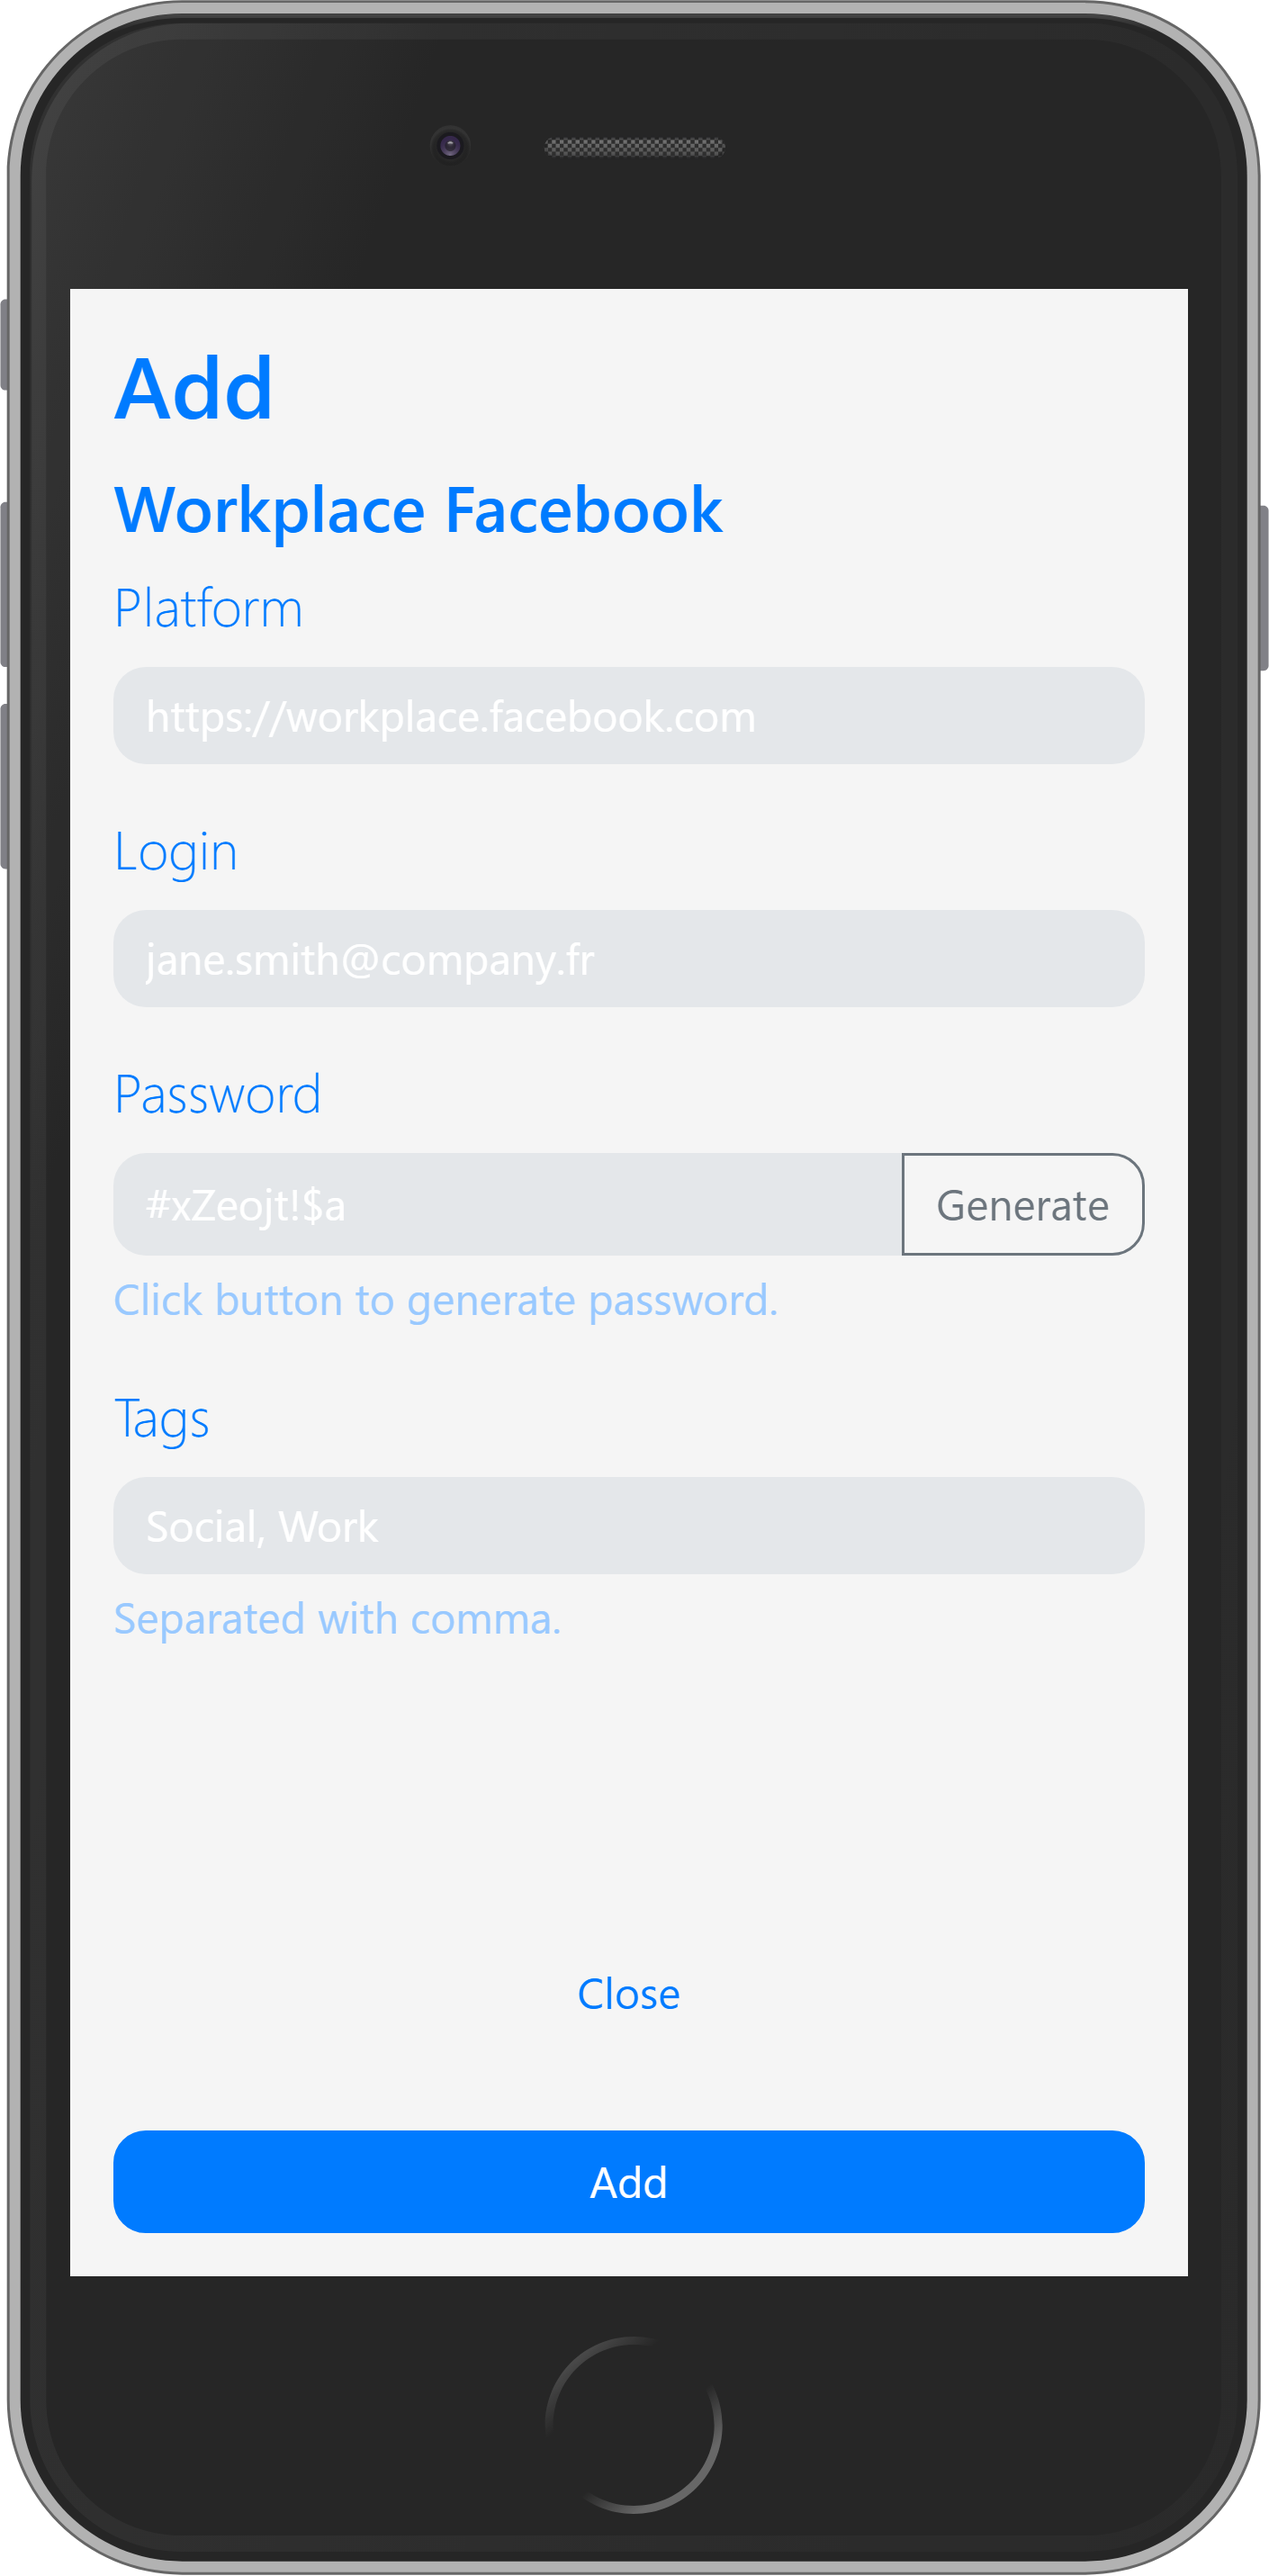
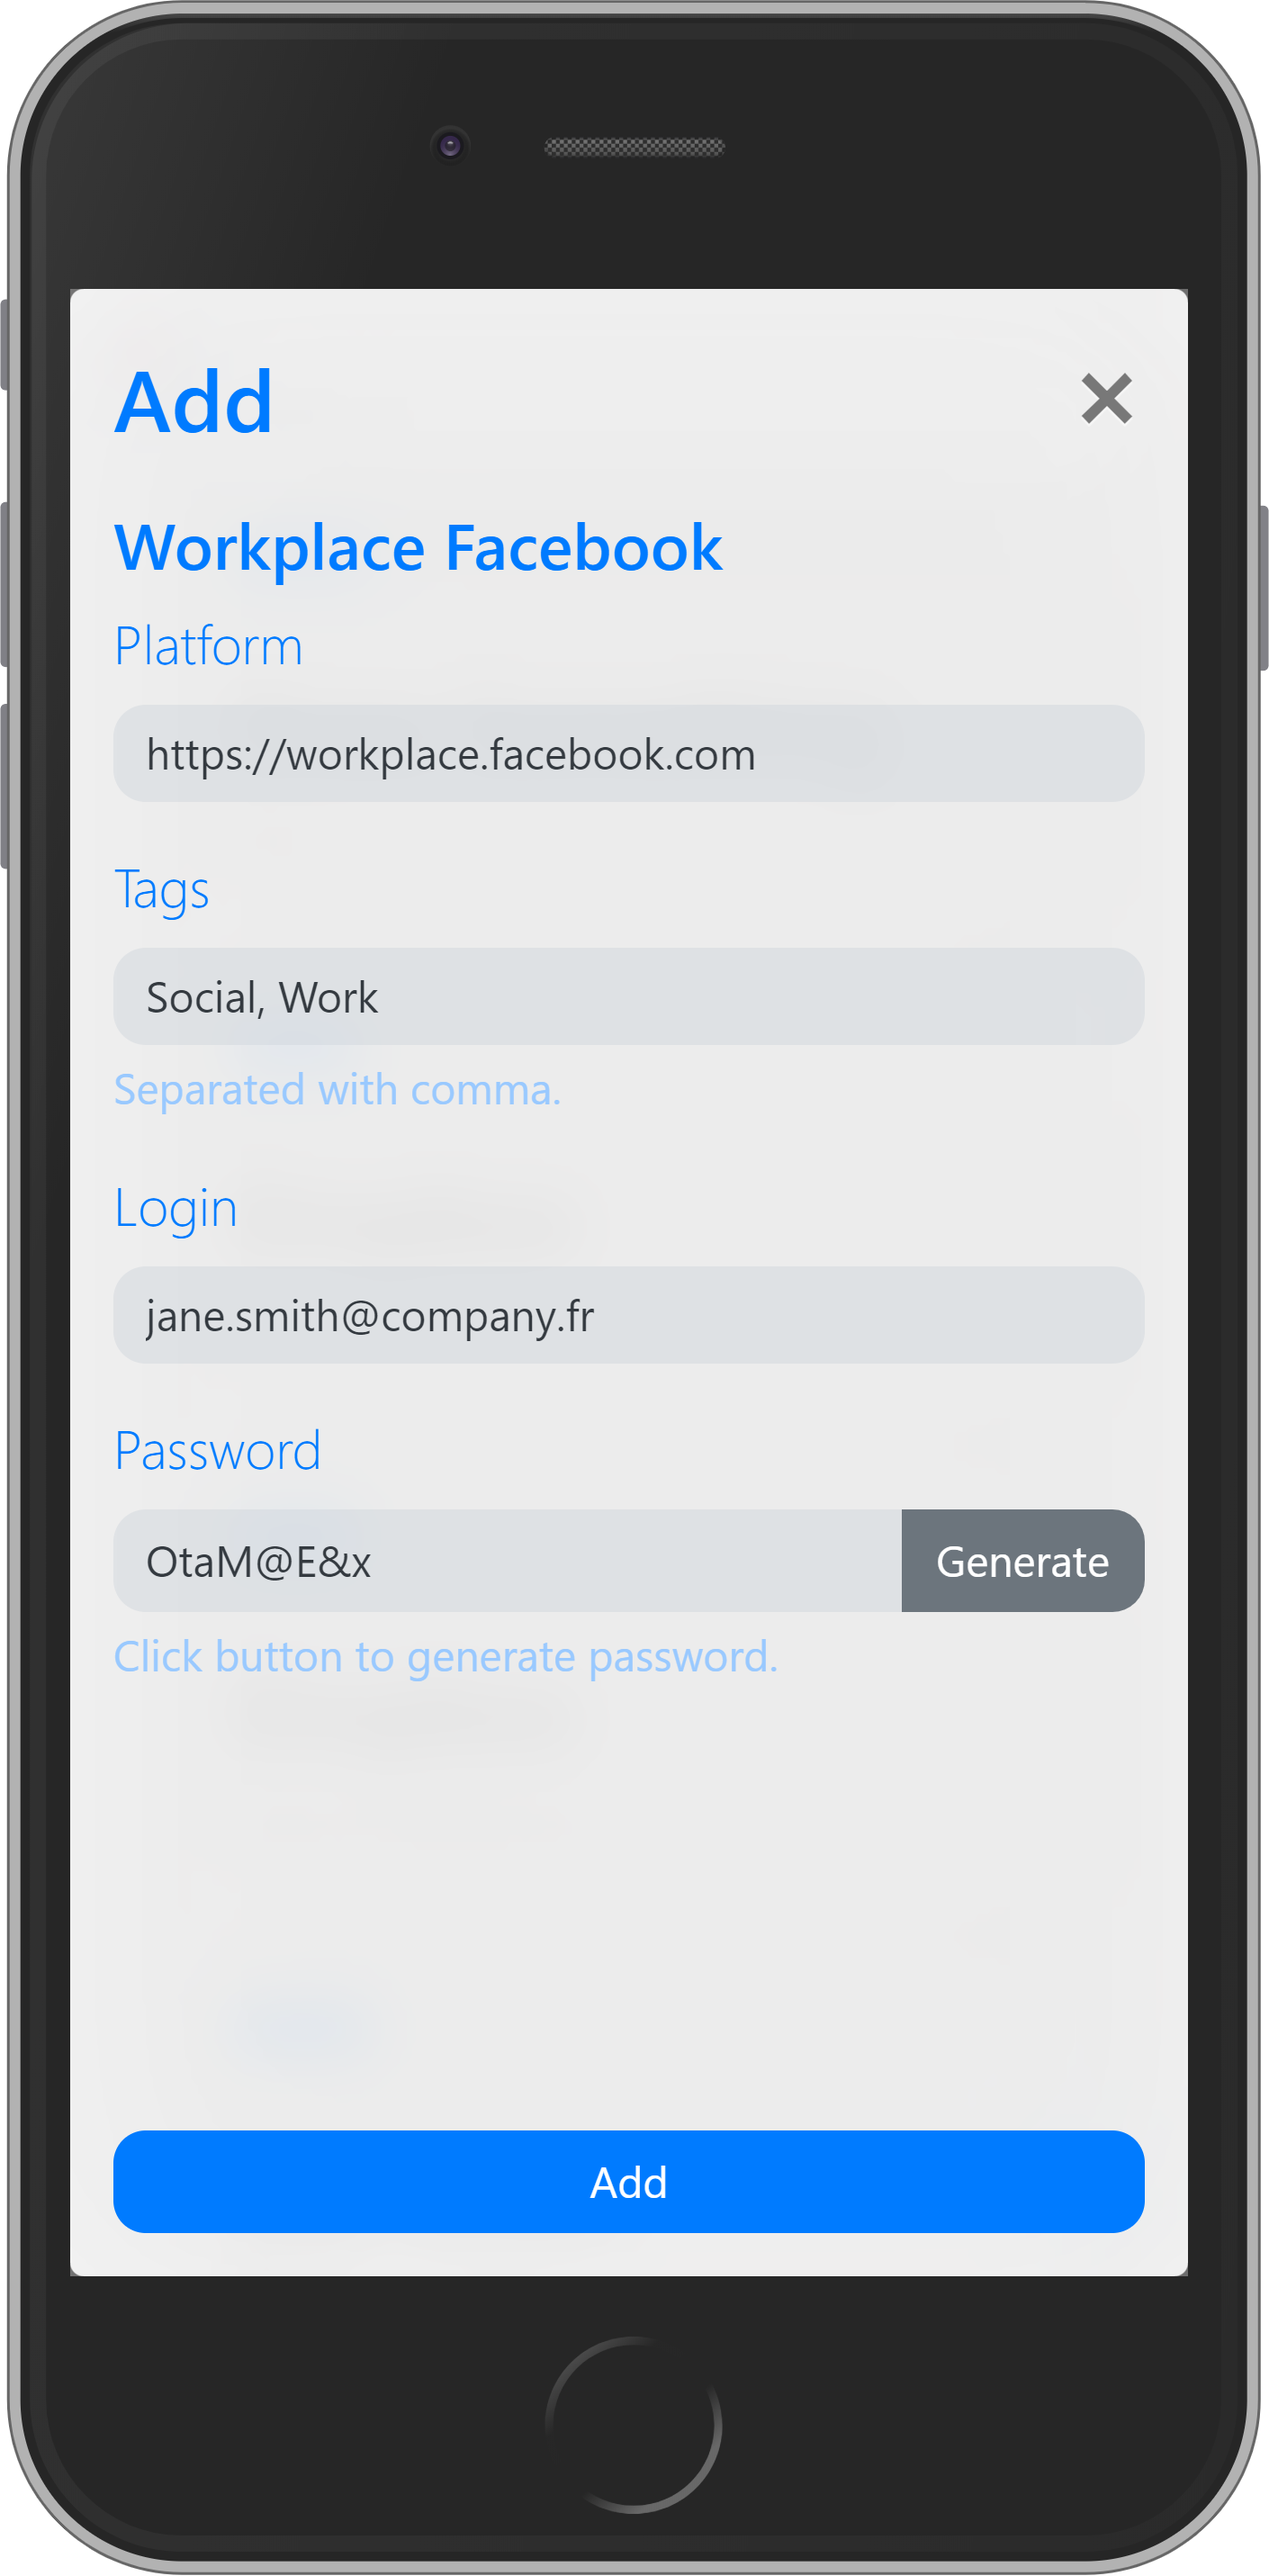
Update design using Neumorphism

diff --git a/src/views/AccountList.vue b/src/views/AccountList.vue
@@ -211,6 +211,25 @@
     .header-search {
         margin: auto;
     }
+    
+    .searchBar {
+        border-radius: 2rem;
+        color: #818182;
+        line-height: 2.5;
+        box-shadow: 20px 20px 60px #d9d9d9, -20px -20px 60px #ffffff;
+    }
+
+    .searchBar::placeholder {
+        color: #818182;
+    }
+
+    .searchBar:active,
+    .searchBar:focus {
+        border: none !important;
+        background-color: #ced4da70;
+        box-shadow:  20px 20px 60px #a3a3a3, 
+             -20px -20px 60px #dddddd;
+    }
 
     .floating-button {
         position:fixed;
@@ -218,15 +237,17 @@
         height:60px;
         bottom:15px;
         right:15px;
-        background-color:#007bff;
-        color:#FFF;
-        border-radius:50px;
+        border-radius:100px;
+        margin-left: auto;
+        margin-right: auto;
+        margin-top:100px;
         text-align:center;
-        box-shadow: 2px 2px 3px #999;
+        background-color:#E0E5EC;
+        box-shadow: 9px 9px 16px rgb(163,177,198,0.6), -9px -9px 16px  rgba(255,255,255, 0.5);
     }
 
     .float-plus {
-        color: #FFF;
+        color: #007bff;
         margin-top:22px;
     }
 </style>

diff --git a/src/App.vue b/src/App.vue
@@ -56,7 +56,7 @@
 
     body {
       color: black;
-      background: #f5f5f5;
+      background: #EFEEEE;
     }
 
     a {
@@ -89,17 +89,32 @@
 
     .btn {
         border-radius: .75rem;
+    } 
+
+    .modal {
+        backdrop-filter: blur(10px);
+        transition: all 1s;
     }
 
-    .searchBar {
-        border-radius: 2rem;
-        color: #818182;
-        background-color: #fff;
-        line-height: 2.5;
-        box-shadow: 0 0 2rem rgba(0, 0, 255, .1);
+    .modal {
+        box-shadow: 0 0 1rem 0 rgba(0, 0, 0, .2);   
+        border-radius: 5px;
+        z-index: 1;
+        background: inherit;
+        overflow: hidden;
     }
 
-    .searchBar::placeholder {
-        color: #818182;
+    .modal:before {
+        content: "";
+        position: absolute;
+        background: inherit;
+        z-index: -1;
+        top: 0;
+        left: 0;
+        right: 0;
+        bottom: 0;
+        box-shadow: inset 0 0 2000px rgba(255, 255, 255, .5);
+        filter: blur(10px);
+        margin: -20px;
     }
 </style>

diff --git a/src/components/NavBar.vue b/src/components/NavBar.vue
@@ -1,6 +1,6 @@
 <template>
     <nav class="navbar navbar-light fixed-top" v-if="isLoggedIn">
-        <button class="navbar-toggler" type="button" @click="signOut()">
+        <button class="navbar-toggler button-power-off" type="button" @click="signOut()">
             <i class="text-danger fa fa-power-off"></i>
         </button>
     </nav>
@@ -39,3 +39,17 @@
         },
     }
 </script>
+
+<style scoped>
+    .navbar {
+        padding-left: 5px;
+    }
+
+    .navbar button {
+        border-radius:100px;
+        text-align:center;
+        background-color:#E0E5EC;
+        border: none;
+        box-shadow: 9px 9px 16px rgb(163,177,198,0.6), -9px -9px 16px  rgba(255,255,255, 0.5);
+    }
+</style>

diff --git a/src/components/AccountItem.vue b/src/components/AccountItem.vue
@@ -39,11 +39,11 @@
 <style scoped>
     .card {
         color: black;
-        background: #ffffff6b;
+        background: #EFEEEE;
         border: none;
         border-radius: 1.55rem;
         margin: 10px;
-        box-shadow: 0 0 2rem rgba(0,0,255,.1);
+        box-shadow: 20px 20px 60px #cbcaca, -20px -20px 60px #ffffff;
     }
 
     .card-header {

diff --git a/src/components/AddAccount.vue b/src/components/AddAccount.vue
@@ -120,7 +120,16 @@
 
     .modal-content {
       border: none;
-      background: #f5f5f5;
+      background: #ffffffdb;
+    }
+
+    .form-control {
+        color: #343a40;
+    }
+
+    .form-control::placeholder {
+        color: #343a40;
+        opacity: 1;
     }
 
     @media only screen and (min-width: 500px) {

diff --git a/README.md b/README.md
@@ -4,7 +4,7 @@
 
 Live : [https://jisme.herokuapp.com](https://jisme.herokuapp.com)
 
-`Progressive Web App` `Vue JS` `Bootstrap`
+`Progressive Web App` `Vue JS` `Bootstrap`, `Neumorphism design`
 
 ## Screenshots
 
@@ -15,10 +15,6 @@ Live : [https://jisme.herokuapp.com](https://jisme.herokuapp.com)
 ### Home page
 
 ![](https://github.com/ismailnguyen/Jisme/raw/master/screenshots/home.png)
-
-### Tags list
-
-![](https://github.com/ismailnguyen/Jisme/raw/master/screenshots/tags_list.png)
 
 ### New account creation popin
 
